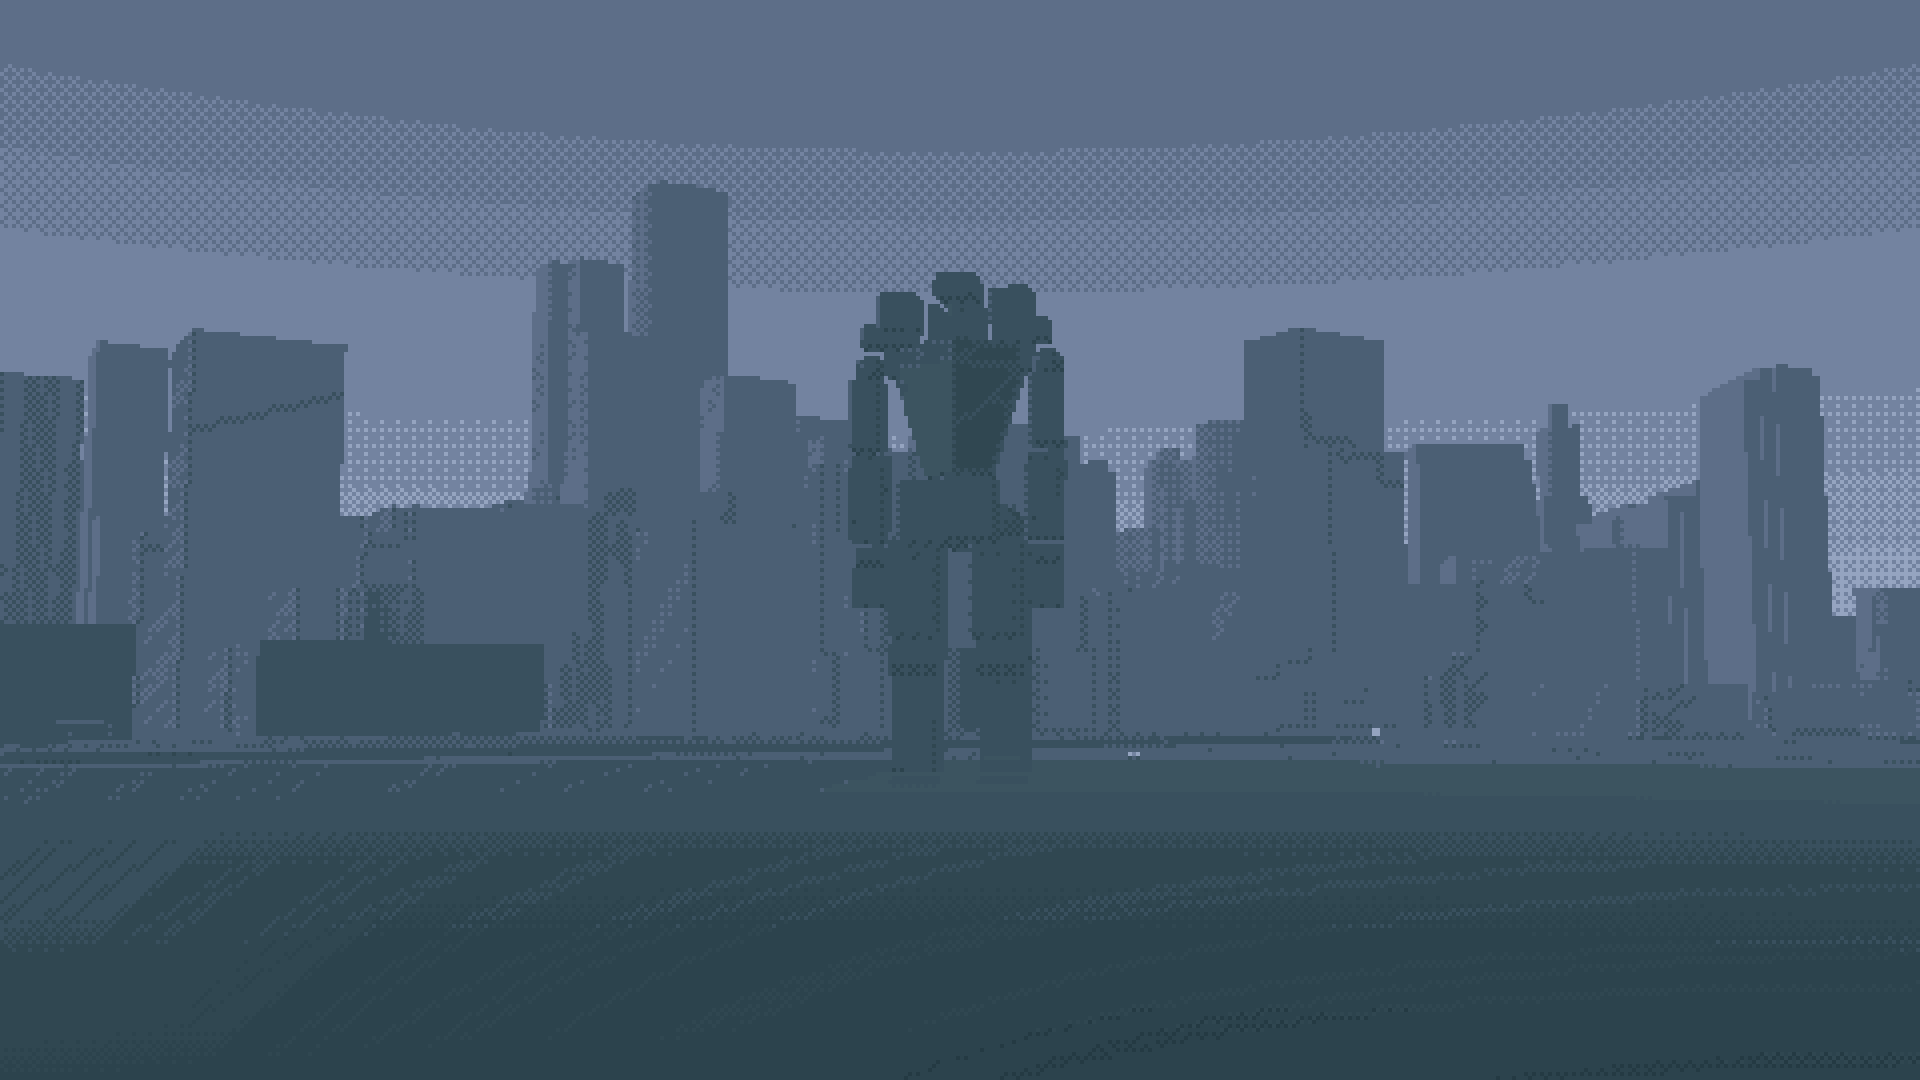
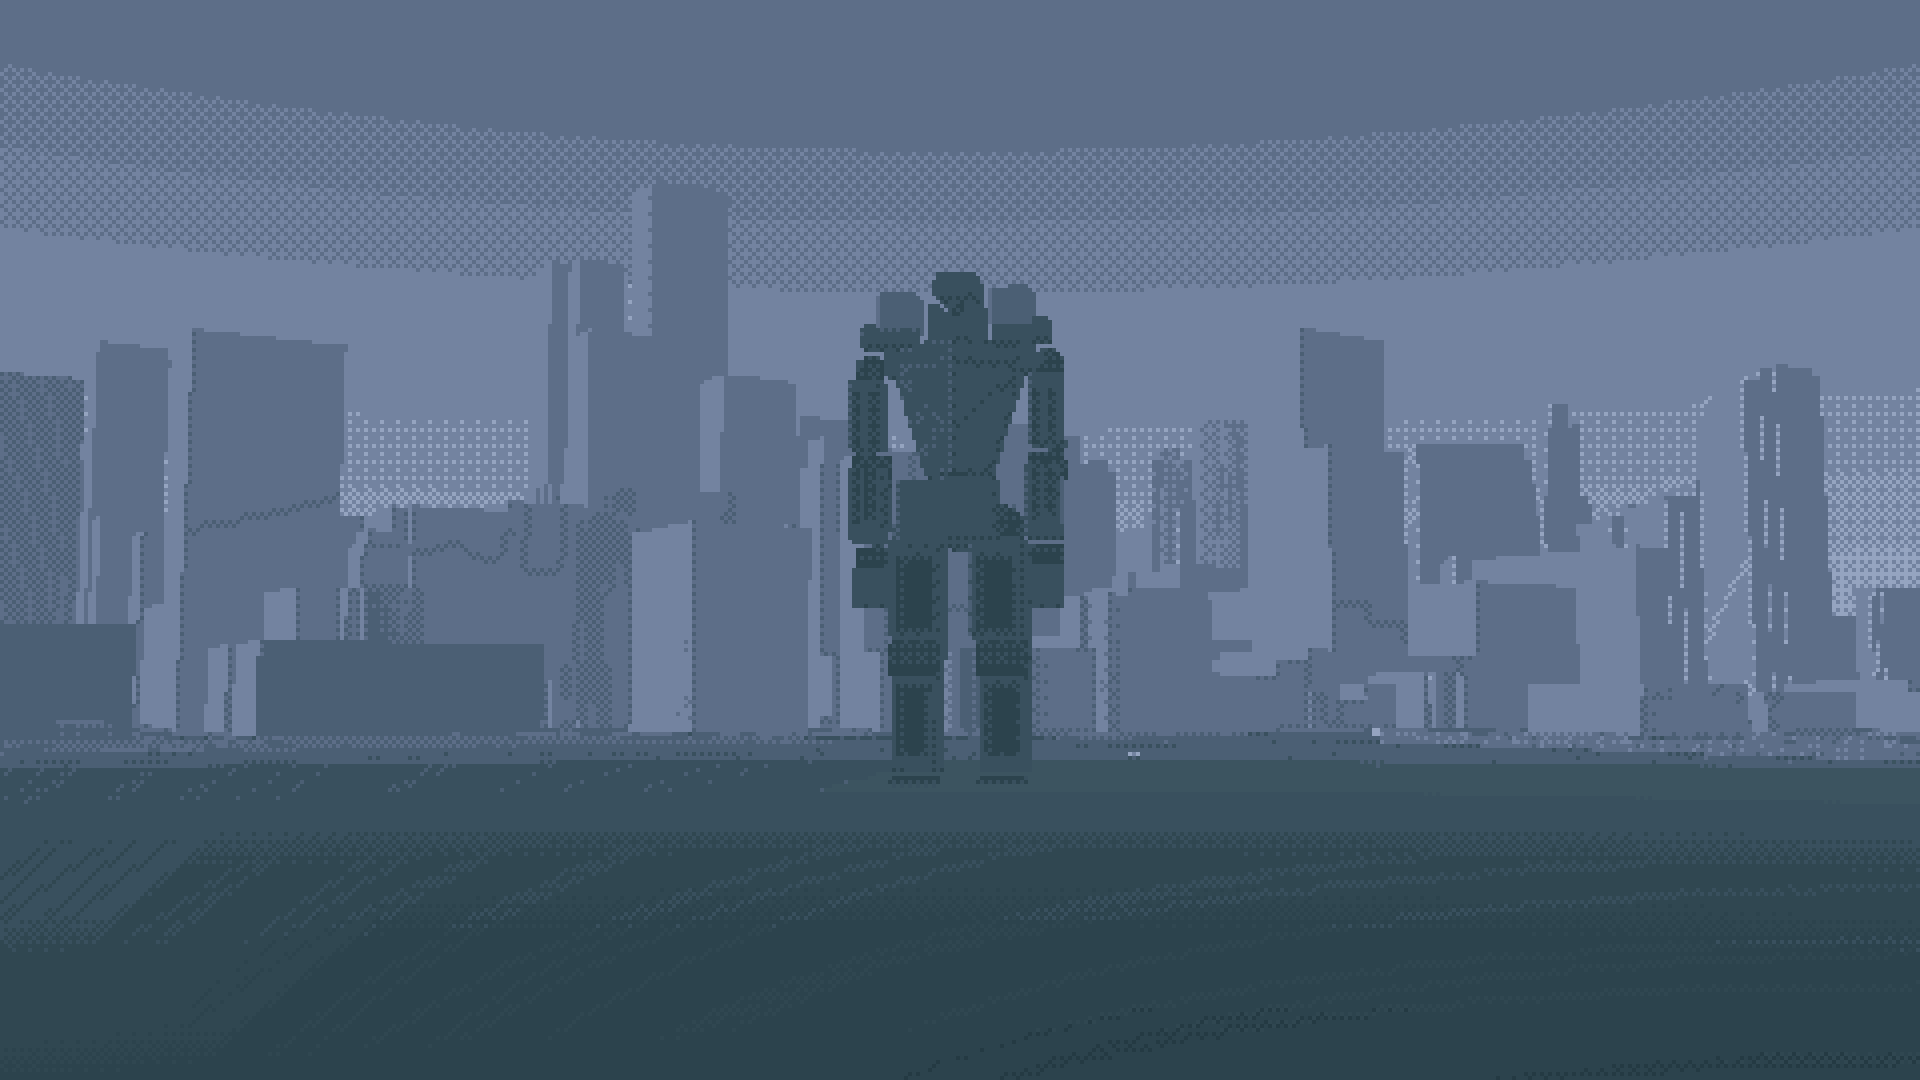
T-006: hero-derived evidence refreshed after warm-up fix

diff --git a/kaiju/evidence/T-006/M003_TABLES.md b/kaiju/evidence/T-006/M003_TABLES.md
@@ -1,4 +1,6 @@
-C4 FAIL (hero 1080p slate_teal c1 span 12.8 < 15; mech L* vs buildings/sky not measurable, c2 N/A for a single still) | C5 PASS (d-iv 100% at s=4 and s=5; DIG on sky/lit surface passes; dither_off DIG 0.016) | C6 FAIL (A2, levels, families pass; no accent present so d-iii N/A; unquantised control rejected by the tool, bilinear control fails A2 out and d-iv) | C11 FAIL (c1 fails in 4 of 5 profiles at both resolutions) | C12 FAIL (waterfront c1 rho 0.80 and sky 0.53; closer/wider c1 pass; C8-C9 out of scope)
+Note: hero_1080p/slate_teal re-captured after warm-up fix 6deae3d; hero rows, line 1 verdicts and hero_1080p report refreshed (other captures unchanged).
+
+C4 PASS (hero 1080p slate_teal c1 span 20.3 >= 15, same as 1440p; mech L* vs buildings/sky not measurable, c2 N/A for a single still) | C5 PASS (d-iv 100% at s=4 and s=5; DIG on sky/lit surface passes; dither_off DIG 0.016) | C6 FAIL (A2, levels, families pass; no accent present so d-iii N/A; unquantised control rejected by the tool, bilinear control fails A2 out and d-iv) | C11 FAIL (c1 fails in 4 of 5 profiles at both resolutions) | C12 FAIL (waterfront c1 rho 0.80 and sky 0.53; closer/wider c1 pass; C8-C9 out of scope)
 
 Tool: Tools/Metrics/metrics.py m003 (tool 1.0.0, registry v1.1), git commit d10ec34. Frame sets are single stills (1 frame per profile/framing/control).
 
@@ -16,7 +18,7 @@ The tool accepts single-frame sets but flags "< 12 gameplay frames" and "no haze
 - Mech mean L* vs buildings/terrain/sky and vs frame median (C4): not measured. mask_animated is all zero in the sidecar (mech not in it) and there is no class mask, so the tool cannot isolate the mech.
 - d-iii accent (C6, one accent 0.1-15%): tool reports NOT_APPLICABLE, no accent in any frame; the C6 requirement of one accent is therefore unmet/unverified.
 - M-003.f panel: PENDING. e.contrast advisory fails only for slate_crimson hero 1080p (9.7 < 25).
-- Odd: hero 1080p slate_teal c1 span 12.78 (fails) but the same view in the bilinear and dither_off controls and hero 1440p give span about 20 (pass); the 1080p hero capture differs from its controls in the far band.
+- Resolved: the earlier hero 1080p slate_teal c1 span of 12.78 came from the unsettled first capture; the re-capture gives 20.34 (pass), consistent with the controls and hero 1440p (about 20).
 - The unquantised control is rejected by the tool as INVALID_INPUT (index/colour disagree, 5803 px), so it does not "fail" on a metric; bilinear fails A2 output and d-iv; dither_off fails DIG; haze_off fails DIG and c1 span.
 - Advisory: waterfront sky share 0.53 (> 0.50).
 
@@ -27,7 +29,7 @@ Report: `evidence/T-006/m003/hero_1080p/` (tool verdict FAIL). Pooled-set note: 
 |---|---|---|---|---|---|---|---|---|---|---|
 | lavender_peach | 1.000/1.000 | 0.354 | 9.87 / 0.80 / 7.60 | FAIL | 5 | 1 | 0 (none present, d-iii N/A) | 1.000 | 0.364 | F / P / P |
 | slate_crimson | 1.000/1.000 | 0.260 | 8.40 / 0.80 / 3.75 | FAIL | 5 | 2 | 0 (none present, d-iii N/A) | 1.000 | 0.364 | F / P / P |
-| slate_teal | 1.000/1.000 | 0.388 | 0.00 / 1.00 / 12.78 | FAIL | 6 | 1 | 0 (none present, d-iii N/A) | 1.000 | 0.364 | F / P / P |
+| slate_teal | 1.000/1.000 | 0.351 | 0.00 / 1.00 / 20.34 | PASS | 6 | 1 | 0 (none present, d-iii N/A) | 1.000 | 0.364 | P / P / P |
 | warm_amber_haze | 1.000/1.000 | 0.289 | 7.09 / 0.80 / 14.13 | FAIL | 8 | 1 | 0 (none present, d-iii N/A) | 1.000 | 0.364 | F / P / P |
 | warm_rust_sepia | 1.000/1.000 | 0.292 | 4.41 / 0.80 / 12.45 | FAIL | 7 | 1 | 0 (none present, d-iii N/A) | 1.000 | 0.364 | F / P / P |
 

diff --git a/kaiju/checkpoints/M0/README.md b/kaiju/checkpoints/M0/README.md
@@ -1,6 +1,6 @@
 # M0 checkpoint: start here
 
-**Status.** Passed: the pixel pipeline and city tile are merged and working; the style frame places an 80 m mech in 5.48 m of water about 150 m off the Embarcadero, skyline match 0.991, grid and dither checks pass, frame cost is small (0.54 ms CPU p50, 119 draw calls, 0 GC). Failed: the hero's depth-value span is 12.8 L* (needs 15) in 4 of 5 palettes, the waterfront framing fails the same test, the Transamerica tower sits 6.2 px off (limit 3), and screen-anchored dither is not stable in motion. Unmerged: T-005 walking mech (below target pace) and this T-006 packet (on `task/T-006`, under evaluation).
+**Status.** Passed: the pixel pipeline and city tile are merged and working; the style frame places an 80 m mech in 5.48 m of water about 150 m off the Embarcadero, skyline match 0.991, grid and dither checks pass, frame cost is small (0.54 ms CPU p50, 119 draw calls, 0 GC). Failed: the hero's depth-value span (needs 15 L*) fails in 4 of 5 palettes (slate_teal passes at 20.3), the waterfront framing fails the same test, the Transamerica tower sits 6.2 px off (limit 3), and screen-anchored dither is not stable in motion. Unmerged: T-005 walking mech (below target pace) and this T-006 packet (on `task/T-006`, under evaluation).
 
 ![Hero frame: slate_teal, current hero framing](hero.png)
 
